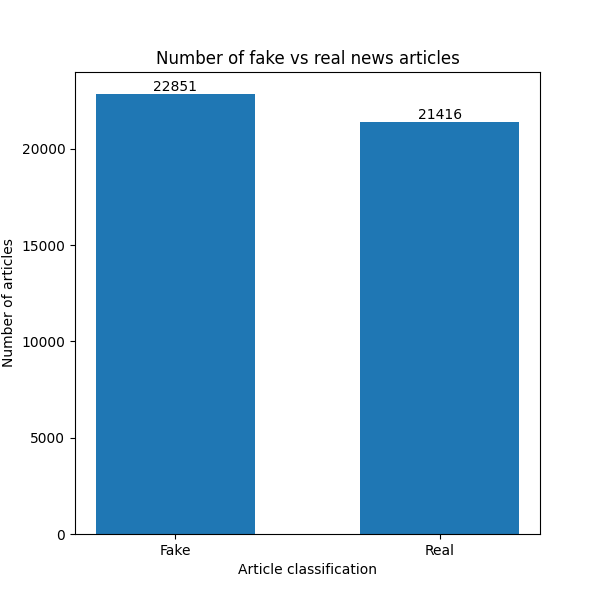
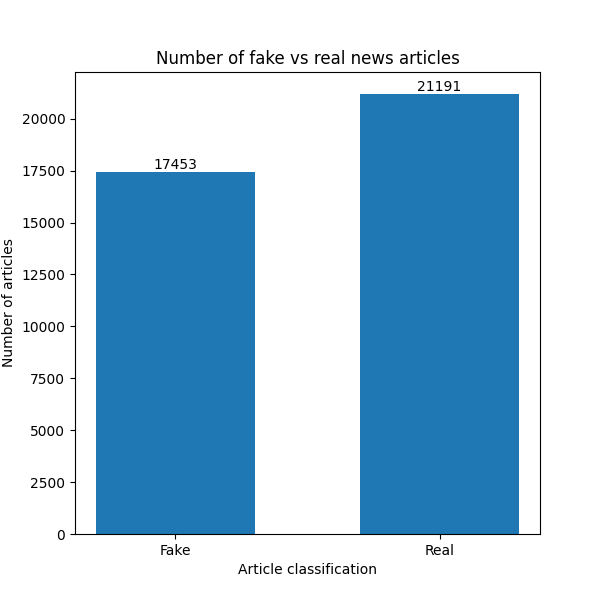
Added some stuff

diff --git a/docs/main.md b/docs/main.md
@@ -57,10 +57,10 @@ This report outlines the architecture and implementation of the LSTM model, deta
 
 # The Dataset
 
-## Fake News detection dataset
+### Fake News detection dataset
 The dataset can be found at: https://www.kaggle.com/datasets/clmentbisaillon/fake-and-real-news-dataset/data .
 
-There are two datasets included, we have `Fake.csv` and `True.csv` where the structure is as follows →
+There are two datasets included. We have `Fake.csv` and `True.csv` where the structure is as follows →
 
 ## Structure:
 - Dataset separated in two files:
@@ -75,17 +75,16 @@ There are two datasets included, we have `Fake.csv` and `True.csv` where the str
     - Subject: subject of news article
     - Date: publish date of news article
 
-The targets for the data are `Fake` and `Real`, thus the classification of the dataset is a binary classification.
+The targets for the data are `Fake` and `Real`, thus the classification of the dataset is a binary text classification. To be able to work with the data appropriately, a file `Create_Dataset.py` merges the true and fake datasets and returns a merged and shuffled collection. This collection has the null values and duplicates removed, resulting in the following distribution:
 
-![alt text](media/image-1.png){ width=50% }
-![alt text](media/chart.png){ width=50% }
-![alt text](media/class.png){ width=100%}
+![alt text](media/image-1.png)
 
-## Data management:
+There is a moderate class imbalance (~45.2% `Fake` vs ~54.84% `Real` news articles). Oversampling and reweighting proved unnecessary as the model performed well on both classes and the confusion matrix (discussed later) showed balanced errors.
 
-To be able to work with the data appropriately, a file `Create_Dataset.py` merges the true and fake datasets and returns the dataset as a merged and shuffled collection, this collection has the null values removed.
+It was decided that only the body text of the news articles would be used in training the model. As seen below, the subject of the news articles made classification trivial as all the `Real` articles are classed as either `World News` or `Politics News` while the `Fake` articles had more variation - `US News`, `Middle East`, `Left News`, `Government News`, `Politics` and, simply, `News`. 
 
-Additionally, the features in the dataset were seperated into dependant and independant features so that it can be determined which features rely on others to be classified in the model.
+![alt text](media/class.png)
+![alt text](media/chart.png)
 
 \newpage
 
@@ -93,22 +92,29 @@ Additionally, the features in the dataset were seperated into dependant and inde
 
  To prepare the data for training a text classification model, we applied a series of Natural Language Processing preprocessing steps. These steps were implemented in Python using the NLTK library and were designed to reduce noise, standardize the text, remove unnecessary variation and convert raw language into embeddings (the real-valued vectors consumed by the LSTM).
 
-## Preprocessing pipeline:
+## Data Splitting
+**Before the vocabulary filtering, the dataset was split using SKlearn into:**
+ - 60% training set – for model learning.
+ - 20% validation set – for hyperparameter tuning and model selection.
+ - 20% test set – for final performance evaluation.
 
+ ![alt text](media/pi.png)
+
+## Preprocessing pipeline:
 **1. Dataset Construction and Removing Duplicates:**
 
-- Combined Fake.csv and True.csv datasets into `Create_Dataset`, added binary labels (0 = fake, 1=real).
+- Combined Fake.csv and True.csv datasets into `Create_Dataset`, added binary labels (`0` = fake, `1` = real).
 - Removed rows with empty text and removed duplicate articles.
 - Shuffled the resulting dataset.
-- Originally, we had 44 898 articles, after removing 6252 duplicates and 631 empty-text rows, we ended up with 38 646 articles.
+- Originally, we had 44 898 articles, after removing 6 252 duplicates and 631 empty-text rows, we ended up with 38 646 articles.
 
 **2. Lowercasing and Data Cleaning:**
 
-In Preprocessing.py, all text was converted to lowercase. Special characters, punctuation, and non-alphabetic symbols were removed via regex. 
+In `Preprocessing.py`, all text was converted to lowercase. Special characters, punctuation, and non-alphabetic symbols were removed via regex. 
 
 **3. Sentence and Word Tokenization:**
 
-Articles were split into individual sentences, and each sentence was further tokenized into words using NLTK's word_tokenize function.
+Articles were split into individual sentences, and each sentence was further tokenized into words using NLTK's `word_tokenize` function.
 
 **4. Stopword Removal:**
 
@@ -118,36 +124,27 @@ Common English stopwords (e.g., "the", "and", "in") were removed to eliminate lo
 
 Remaining words were lemmatized to reduce each word to its base form (e.g., "running" becomes "run").
 
-**6. Special Tokens and Length Limitation:**
+**6. Special Tokens:**
 
-We added an end of sentence token to each sentence. This helped the model recognize where sentences began and ended. Each article was then condensed to a maximum length of 256 tokens. This was done to ensure that all inputs were the same length and to avoid exceeding memory constraints.
+We added an end of sentence token `<eos>` to each sentence. This helped the model recognize where sentences began and ended - an important step in training the model to understand sentence structure and anchor the position of key information.
 
 **7. Vocabulary Filtering:**
 
-We built a vocabulary from the cleaned tokens, keeping only tokens that occurred at least 3 times in the training dataset. Words not in the vocabulary were replaced with an `<unk>` (unknown) token.
+We built an enumerated vocabulary from the cleaned tokens, keeping only tokens that occurred at least 3 times in the training dataset. This ensures the model learns to generalise from known patterns on seen data and can successfully handle unseen data during validation and testing.
 
-**8. Padding:**
+**8. Truncation and Padding:**
 
-All token sequences were padded so that every article was the same length. This was necessary for batch processing and consistent input dimensions for the LSTM.
+Each article was then condensed to a maximum length of 256 tokens. The beginning of a news article typically contains the most important content. LSTMs struggle with long sequences as they increase learning complexity, resulting in overfitting and making training noisier. All token sequences less than the maximum length were padded so that every article was the same length - necessity for batch processing and consistent input dimensions for the LSTM.
+
+**9. Integer Encoding:**
+
+LSTMs require numeric inputs that act as lookup keys for the embedding layer. The processed data was encoded as integer sequences using the vocabulary's enumeration. OOV (out-of-vocabulary) words were replaced with an `<unk>` (unknown) token.
+
 
 We used NLTK for linguistic preprocessing (tokenization, stopword removal, and lemmatization)
 In addition to these steps, we implemented efficient data storage. The final encoded dataset and vocabulary were saved as .pkl files in the Pickled_data folder to keep file sizes small and avoid exceeding GitHub's 100MB commit limit. Human-readable .txt files—containing the unprocessed text, vocabulary, and encoded sequences—were saved in a Readables folder, which is excluded from version control. These preprocessing steps not only standardized and cleaned the text but also contributed to noise reduction, dimensionality control (through a filtered vocabulary), and semantic consistency (via lemmatization). As a result, the model was able to train more efficiently and generalize better to unseen data.
 
-
-
-## Data Splitting
-
-**The dataset was split using SKlearn into:**
-
- - 60% training set – for model learning.
-
- - 20% validation set – for hyperparameter tuning and model selection.
-
- - 20% test set – for final performance evaluation.
- 
- ![alt text](media/pi.png)
-
- \newpage
+\newpage
 
 
 # Long Short Term Memory (LSTM)
@@ -170,21 +167,26 @@ This one cycle of LSTM is considered a single-time step.
 The cell state will carry all the information about the data as well as the timestamps.
 
 Finally the LSTM computations are done in the following way: 
-Computation in a LSTM is done by first concatenating the current input `x(t)` with the previous short-term memory `h(t - 1)` to get `x(t)h(t - 1)` and then computing 
+Computation in a LSTM is done by first concatenating the current input `x(t)` with the previous short-term memory `h(t − 1)` to get `x(t)h(t − 1)` and then computing 
 
-- Forget gate: $f(t) = \sigma([x(t), h(t - 1)] W_f + b_f)$  
-- Input gate: $i(t) = \sigma([x(t), h(t - 1)] W_i + b_i)$  
-- Candidate memory: $\tilde{c}(t) = \tanh([x(t), h(t - 1)] W_c + b_c)$  
-- Output gate: $o(t) = \sigma([x(t), h(t - 1)] W_o + b_o)$  
+- Forget gate: f(t) = σ(x(t)h(t − 1)W<sub>f</sub> + b<sub>f</sub>)
+- Input gate: i(t) =  σ(x(t)h(t − 1)W<sub>i</sub> + b<sub>i</sub>)
+- Candidate memory: c(t) = tanh(x(t)h(t − 1)W<sub>c</sub>  + b<sub>c</sub> )
+- Output gate: o(t) = σ(x(t)h(t − 1)W<sub>o</sub>  + b<sub>o</sub> )
 
 The above vectors are then combined as follows:
-- $c(t) = f(t) \odot c(t - 1) + i(t) \odot \tilde{c}(t)$  
-- $h(t) = o(t) \odot \tanh(c(t))$
+- &tilde;c(t) = f(t)⊙&tilde;c(t − 1) + i(t)⊙c(t)
+- h(t) = o(t)⊙tanh(&tilde;c(t))
 where  represents pointwise multiplication of vectors
 
 
 
 ## Reasoning for choice of LSTM
+
+RNNs are particularly effective at processing sequential data, such as language and text, due to their ability to capture temporal dependencies. This makes them more suitable for text analysis compared to other architectures like Convolutional Neural Networks (CNNs) or standard feedforward networks.
+A key advantage of RNNs lies in their internal loop structures, which allow them to retain information across time steps—an essential feature for understanding context in sequential data. This capability enables RNNs to detect semantic patterns and relationships between words, which is critical in applications such as fake news detection.
+
+LSTMs, an advanced form of RNNs, further enhance performance by mitigating the vanishing gradient problem. This allows the model to preserve and leverage important information from earlier in the sequence, improving classification accuracy, especially in longer texts. Additionally, LSTMs can handle input sequences of variable lengths, providing flexibility that static-length models lack.
 
 Most machine learning models often rely on fixed-size input vectors and may fail to capture the nuanced dependencies that exist across time steps in a sequence. Whereas, Long Short-Term Memory (LSTM) networks are specifically designed to handle sequential data, making them appropriate for text classification tasks such as fake news detection.
 
@@ -193,6 +195,11 @@ The memory and gating features allow LSTMs to selectively retain or discard info
 Considering our dataset, we have the task of identifying whether excerpts of text can be classified as fake or genuine news articles. LSTMs are relevant in this case in that they have feedback connections, allowing them to process entire sequences of data, not just individual data points. This makes them highly effective in understanding and predicting patterns in sequential data like text and speech (saxena, 2021).
 
 Given these strengths, building an LSTM model for the binary classification seemed an appropriate choice.
+
+
+## Machine learning algorithm used
+
+In this implementation, the machine learning algorithm used was a supervised learning approach with a stacked LSTM network. The model was trained using backpropagation through time (BPTT) with the Adam optimiser, and classification was guided by the Cross-Entropy Loss function. These methods enabled effective optimisation of the LSTM parameters for binary text classification. The entire model was trained on labelled fake and real news data, allowing it to learn and generalise patterns that distinguish between the two categories.
 
 
 
@@ -230,16 +237,17 @@ Given these strengths, building an LSTM model for the binary classification seem
 - **Droput** - Dropout is a regularization method where input and recurrent connections to LSTM units are probabilistically excluded from activation and weight updates while training a network. This has the effect of reducing overfitting and improving model performance (Brownlee, 2017)
 - **Weight Decay** - Also known as L2 Regularization, is used to regularize the weights by penalizing large weights in the network.
 
+
 ### Evaluation Metrics
 
 - **Metrics**: Evaluation criteria during training and testing. E.g `accuracy` for training, `F1, precision, and recall` for evaluation.
 
 | Metric      | Formula               | Purpose                  |
 |-------------|-----------------------|--------------------------|
-| **Accuracy**  | $$ \frac{TP + TN}{Total} $$| Measures overall prediction correctness |
-| **Precision** | $$\frac{TP}{TP + FP}$$    | Controls false positives |
-| **Recall**    | $$\frac{TP}{TP + FN}$$    | Controls false negatives |
-| **F1-Score**  | $$2 \times \frac{P \times R}{P + R}$$ | Harmonic mean of precision and recall |
+| **Accuracy**  | $ \frac{TP + TN}{Total} $| Measures overall prediction correctness |
+| **Precision** | $\frac{TP}{TP + FP}$    | Controls false positives |
+| **Recall**    | $\frac{TP}{TP + FN}$    | Controls false negatives |
+| **F1-Score**  | $2 \times \frac{P \times R}{P + R}$ | Harmonic mean of precision and recall |
 
 ##### These values are used to compute the confusion matrix:
 - **TP**: True Positives  

diff --git a/docs/3.md b/docs/3.md
@@ -2,21 +2,29 @@
 
  To prepare the data for training a text classification model, we applied a series of Natural Language Processing preprocessing steps. These steps were implemented in Python using the NLTK library and were designed to reduce noise, standardize the text, remove unnecessary variation and convert raw language into embeddings (the real-valued vectors consumed by the LSTM).
 
+## Data Splitting
+**Before the vocabulary filtering, the dataset was split using SKlearn into:**
+ - 60% training set – for model learning.
+ - 20% validation set – for hyperparameter tuning and model selection.
+ - 20% test set – for final performance evaluation.
+
+ ![alt text](media/pi.png)
+
 ## Preprocessing pipeline:
 **1. Dataset Construction and Removing Duplicates:**
 
-- Combined Fake.csv and True.csv datasets into `Create_Dataset`, added binary labels (0 = fake, 1=real).
+- Combined Fake.csv and True.csv datasets into `Create_Dataset`, added binary labels (`0` = fake, `1` = real).
 - Removed rows with empty text and removed duplicate articles.
 - Shuffled the resulting dataset.
-- Originally, we had 44 898 articles, after removing 6252 duplicates and 631 empty-text rows, we ended up with 38 646 articles.
+- Originally, we had 44 898 articles, after removing 6 252 duplicates and 631 empty-text rows, we ended up with 38 646 articles.
 
 **2. Lowercasing and Data Cleaning:**
 
-In Preprocessing.py, all text was converted to lowercase. Special characters, punctuation, and non-alphabetic symbols were removed via regex. 
+In `Preprocessing.py`, all text was converted to lowercase. Special characters, punctuation, and non-alphabetic symbols were removed via regex. 
 
 **3. Sentence and Word Tokenization:**
 
-Articles were split into individual sentences, and each sentence was further tokenized into words using NLTK's word_tokenize function.
+Articles were split into individual sentences, and each sentence was further tokenized into words using NLTK's `word_tokenize` function.
 
 **4. Stopword Removal:**
 
@@ -26,28 +34,22 @@ Common English stopwords (e.g., "the", "and", "in") were removed to eliminate lo
 
 Remaining words were lemmatized to reduce each word to its base form (e.g., "running" becomes "run").
 
-**6. Special Tokens and Length Limitation:**
+**6. Special Tokens:**
 
-We added an end of sentence token to each sentence. This helped the model recognize where sentences began and ended. Each article was then condensed to a maximum length of 256 tokens. This was done to ensure that all inputs were the same length and to avoid exceeding memory constraints.
+We added an end of sentence token `<eos>` to each sentence. This helped the model recognize where sentences began and ended - an important step in training the model to understand sentence structure and anchor the position of key information.
 
 **7. Vocabulary Filtering:**
 
-We built a vocabulary from the cleaned tokens, keeping only tokens that occurred at least 3 times in the training dataset. Words not in the vocabulary were replaced with an `<unk>` (unknown) token.
+We built an enumerated vocabulary from the cleaned tokens, keeping only tokens that occurred at least 3 times in the training dataset. This ensures the model learns to generalise from known patterns on seen data and can successfully handle unseen data during validation and testing.
 
-**8. Padding:**
+**8. Truncation and Padding:**
 
-All token sequences were padded so that every article was the same length. This was necessary for batch processing and consistent input dimensions for the LSTM.
+Each article was then condensed to a maximum length of 256 tokens. The beginning of a news article typically contains the most important content. LSTMs struggle with long sequences as they increase learning complexity, resulting in overfitting and making training noisier. All token sequences less than the maximum length were padded so that every article was the same length - necessity for batch processing and consistent input dimensions for the LSTM.
+
+**9. Integer Encoding:**
+
+LSTMs require numeric inputs that act as lookup keys for the embedding layer. The processed data was encoded as integer sequences using the vocabulary's enumeration. OOV (out-of-vocabulary) words were replaced with an `<unk>` (unknown) token.
+
 
 We used NLTK for linguistic preprocessing (tokenization, stopword removal, and lemmatization)
 In addition to these steps, we implemented efficient data storage. The final encoded dataset and vocabulary were saved as .pkl files in the Pickled_data folder to keep file sizes small and avoid exceeding GitHub's 100MB commit limit. Human-readable .txt files—containing the unprocessed text, vocabulary, and encoded sequences—were saved in a Readables folder, which is excluded from version control. These preprocessing steps not only standardized and cleaned the text but also contributed to noise reduction, dimensionality control (through a filtered vocabulary), and semantic consistency (via lemmatization). As a result, the model was able to train more efficiently and generalize better to unseen data.
-
-
-
-## Data Splitting
-**The dataset was split using SKlearn into:**
- - 60% training set – for model learning.
- - 20% validation set – for hyperparameter tuning and model selection.
- - 20% test set – for final performance evaluation.
-
- ![alt text](media/pi.png)
-

diff --git a/docs/model.md b/docs/model.md
@@ -34,6 +34,11 @@ where  represents pointwise multiplication of vectors
 
 ## Reasoning for choice of LSTM
 
+RNNs are particularly effective at processing sequential data, such as language and text, due to their ability to capture temporal dependencies. This makes them more suitable for text analysis compared to other architectures like Convolutional Neural Networks (CNNs) or standard feedforward networks.
+A key advantage of RNNs lies in their internal loop structures, which allow them to retain information across time steps—an essential feature for understanding context in sequential data. This capability enables RNNs to detect semantic patterns and relationships between words, which is critical in applications such as fake news detection.
+
+LSTMs, an advanced form of RNNs, further enhance performance by mitigating the vanishing gradient problem. This allows the model to preserve and leverage important information from earlier in the sequence, improving classification accuracy, especially in longer texts. Additionally, LSTMs can handle input sequences of variable lengths, providing flexibility that static-length models lack.
+
 Most machine learning models often rely on fixed-size input vectors and may fail to capture the nuanced dependencies that exist across time steps in a sequence. Whereas, Long Short-Term Memory (LSTM) networks are specifically designed to handle sequential data, making them appropriate for text classification tasks such as fake news detection.
 
 The memory and gating features allow LSTMs to selectively retain or discard information over long sequences, enabling the model to learn both short-term and long-term dependencies within the text. This means that, LSTMs can understand context over multiple words and sentences which is an essential capability when dealing with politically based or convoluted language that often appears in fake news content.
@@ -41,6 +46,11 @@ The memory and gating features allow LSTMs to selectively retain or discard info
 Considering our dataset, we have the task of identifying whether excerpts of text can be classified as fake or genuine news articles. LSTMs are relevant in this case in that they have feedback connections, allowing them to process entire sequences of data, not just individual data points. This makes them highly effective in understanding and predicting patterns in sequential data like text and speech (saxena, 2021).
 
 Given these strengths, building an LSTM model for the binary classification seemed an appropriate choice.
+
+
+## Machine learning algorithm used
+
+In this implementation, the machine learning algorithm used was a supervised learning approach with a stacked LSTM network. The model was trained using backpropagation through time (BPTT) with the Adam optimiser, and classification was guided by the Cross-Entropy Loss function. These methods enabled effective optimisation of the LSTM parameters for binary text classification. The entire model was trained on labelled fake and real news data, allowing it to learn and generalise patterns that distinguish between the two categories.
 
 
 

diff --git a/docs/1.md b/docs/1.md
@@ -3,7 +3,7 @@
 ### Fake News detection dataset
 The dataset can be found at: https://www.kaggle.com/datasets/clmentbisaillon/fake-and-real-news-dataset/data .
 
-There are two datasets included, we have `Fake.csv` and `True.csv` where the structure is as follows →
+There are two datasets included. We have `Fake.csv` and `True.csv` where the structure is as follows →
 
 ## Structure:
 - Dataset separated in two files:
@@ -18,13 +18,13 @@ There are two datasets included, we have `Fake.csv` and `True.csv` where the str
     - Subject: subject of news article
     - Date: publish date of news article
 
-The targets for the data are `Fake` and `Real`, thus the classification of the dataset is a binary classification.
+The targets for the data are `Fake` and `Real`, thus the classification of the dataset is a binary text classification. To be able to work with the data appropriately, a file `Create_Dataset.py` merges the true and fake datasets and returns a merged and shuffled collection. This collection has the null values and duplicates removed, resulting in the following distribution:
 
 ![alt text](media/image-1.png)
-![alt text](media/chart.png)
+
+There is a moderate class imbalance (~45.2% `Fake` vs ~54.84% `Real` news articles). Oversampling and reweighting proved unnecessary as the model performed well on both classes and the confusion matrix (discussed later) showed balanced errors.
+
+It was decided that only the body text of the news articles would be used in training the model. As seen below, the subject of the news articles made classification trivial as all the `Real` articles are classed as either `World News` or `Politics News` while the `Fake` articles had more variation - `US News`, `Middle East`, `Left News`, `Government News`, `Politics` and, simply, `News`. 
+
 ![alt text](media/class.png)
-## Data management:
-
-To be able to work with the data appropriately, a file `Create_Dataset.py` merges the true and fake datasets and returns the dataset as a merged and shuffled collection, this collection has the null values removed.
-
-Additionally, the features in the dataset were seperated into dependant and independant features so that it can be determined which features rely on others to be classified in the model. 
+![alt text](media/chart.png)

diff --git a/tuning.md b/tuning.md
@@ -1,0 +1,28 @@
+# Hyperparameter tuning
+
+Tuning was done manually. The hyperparameters were modified one at a time to test how well the model performed after each change. Evaluation of the model was conducted using validation accuracy and loss. Initially, it struggled to improve beyond a 55% validation accuracy - essentially random guessing for a binary text classification - and validation loss increased every epoch, indicating overfitting. The following hyperparameters made the greatest difference in solving these issues:
+
+
+## Number of LSTM layers
+
+Originally, our model utilised only one LSTM layer and no dropout.
+
+### Dropout
+
+### Weight decay
+
+## Batch size
+
+The original batch size was 32 and was later decreased to 16 for better generalisation and frequent updates for the model to escape local minima more effectively.
+
+## LSTM Hidden Units
+
+The original hidden size was 256 units and was later decreased to 128.
+
+## Maximum Article length
+
+Shorter sequences (256 tokens) tend to focus on the core information and the beginning of news articles are typically the most important, whereas longer sequences (512 tokens) contain background and elaboration, providing more context but diluting the signal needed for classification and forcing the model to compress more information into a fixed size hidden state. Beyond a certain point, LSTMs do not scale well with longer sequence length, as we discovered during the initial runs with a maximum length of 512.
+
+![alt text](media/Article length.png)
+
+With outliers removed, the above plot shows the length of preprocessed articles before truncation, revealing that the second quartile contains 224 tokens. We changed the maximum article length to 256 and noticed a significant increase in accuracy and no overfitting.

diff --git a/docs/_sidebar.md b/docs/_sidebar.md
@@ -3,5 +3,6 @@
 * [Dataset Description](1.md)
 * [Data preprocessing](3.md)
 * [Model Choice](model.md)
-* [ Python Libraries, Frameworks and packages](2.md)
+* [Python Libraries, Frameworks and packages](2.md)
+* [Hyperparameter Tuning](tuning.md)
 * [References](references.md)
